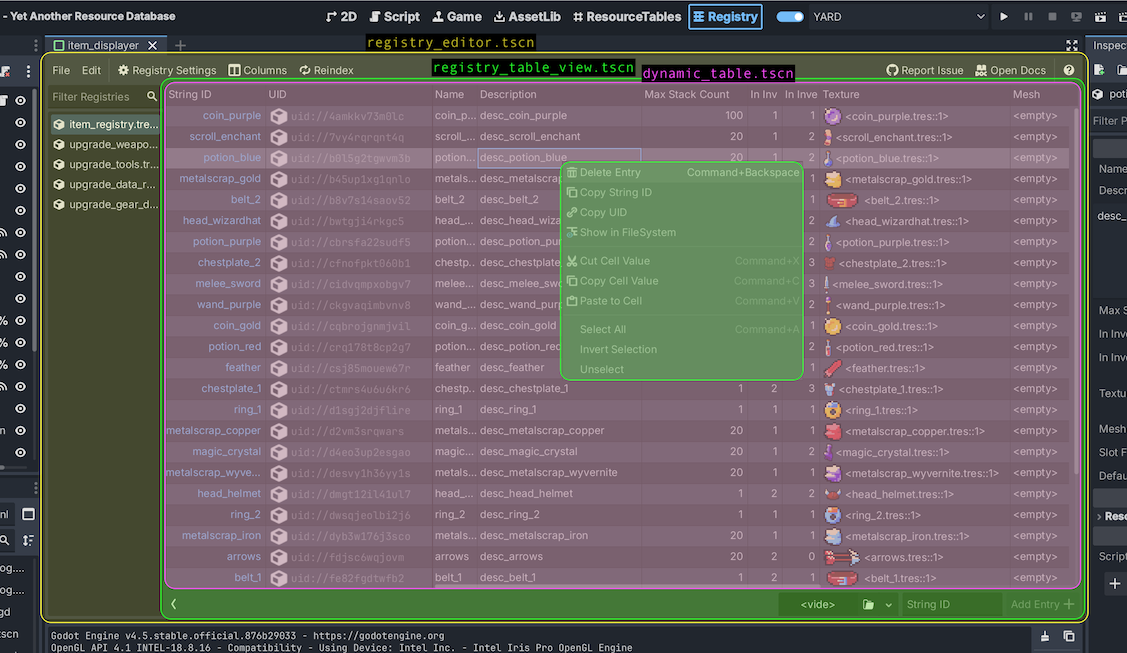
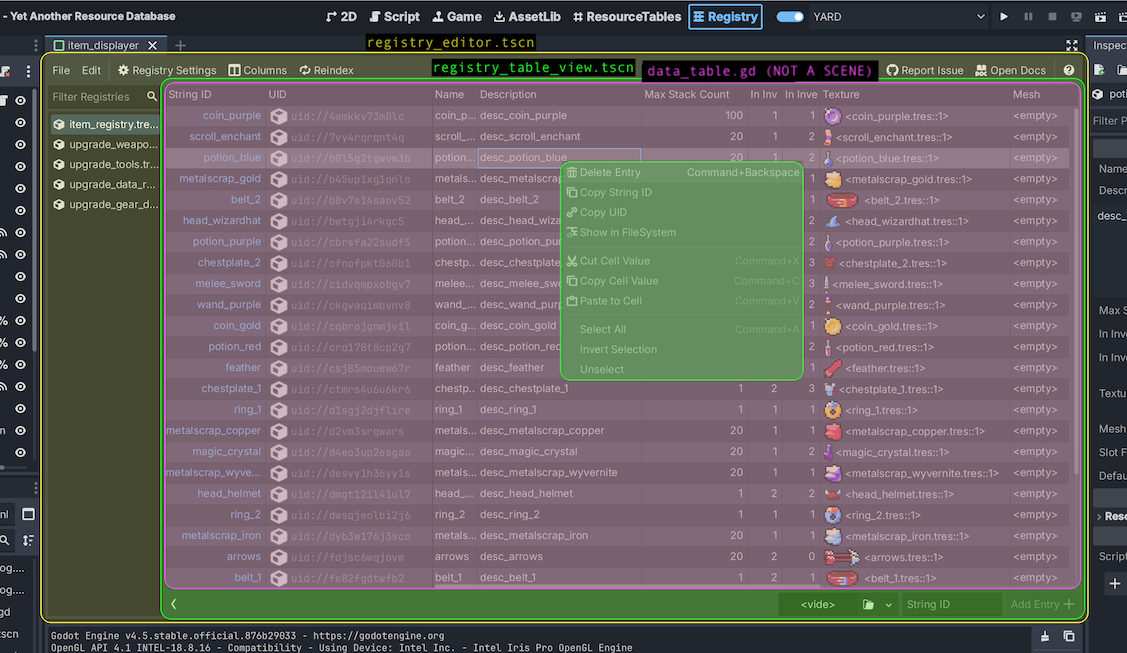
refactor: rename DynamicTable to DataTable

Changed region(s): [[0.559, 0.0919, 0.8075, 0.1225]]

diff --git a/CONTRIBUTING.md b/CONTRIBUTING.md
@@ -62,7 +62,7 @@ const Namespace := preload("res://addons/yard/editor_only/namespace.gd")
 const RegistryIO := Namespace.RegistryIO
 const ClassUtils := Namespace.ClassUtils
 const EditorThemeUtils := Namespace.EditorThemeUtils
-const DynamicTable := Namespace.DynamicTable
+const DataTable := Namespace.DataTable
 const RegistryCacheData := Namespace.YardEditorCache.RegistryCacheData
 ```
 
@@ -76,7 +76,7 @@ The core display loosely follows the [Model-View-Adapter](https://en.wikipedia.o
 - **Adapter**: `RegistryTableView` — translates registry entries into rows and column
   configs, and calls `RegistryIO` when a cell is edited. This is where most
   registry-specific UI logic lives.
-- **View**: `DynamicTable` — a generic spreadsheet over a flat `Array[Array]` of
+- **View**: `DataTable` — a generic spreadsheet over a flat `Array[Array]` of
   `Variant` values. It has no knowledge of `Registry` or any YARD-specific logic.
   Keep it that way.
 
@@ -84,11 +84,11 @@ The core display loosely follows the [Model-View-Adapter](https://en.wikipedia.o
 registries are open, handles file operations (open, close, recent), and owns the top
 bar menus. It drives the MVA trio by setting `registry_table_view.current_registry`.
 
-![Plugin UI architecture overview, highlighting the RegistryEditor, RegistryTableView and DynamicTable scenes](/etc/plugin_ui_architecture.png)
+![Plugin UI architecture overview, highlighting the RegistryEditor, RegistryTableView and DataTable scenes](/etc/plugin_ui_architecture.png)
 
 When working on a new feature, this layering tells you where to make the change:
-registry display or editing logic belongs in `RegistryTableView`; spreadsheet rendering
-in `DynamicTable`; plugin-level operations (menus, file I/O) in `RegistryEditor`.
+registry display / editing logic belongs in `RegistryTableView`; spreadsheet rendering / cell editing
+in `DataTable`; plugin-level operations (top-level menus, file I/O) in `RegistryEditor`.
 
 ## Code conventions
 